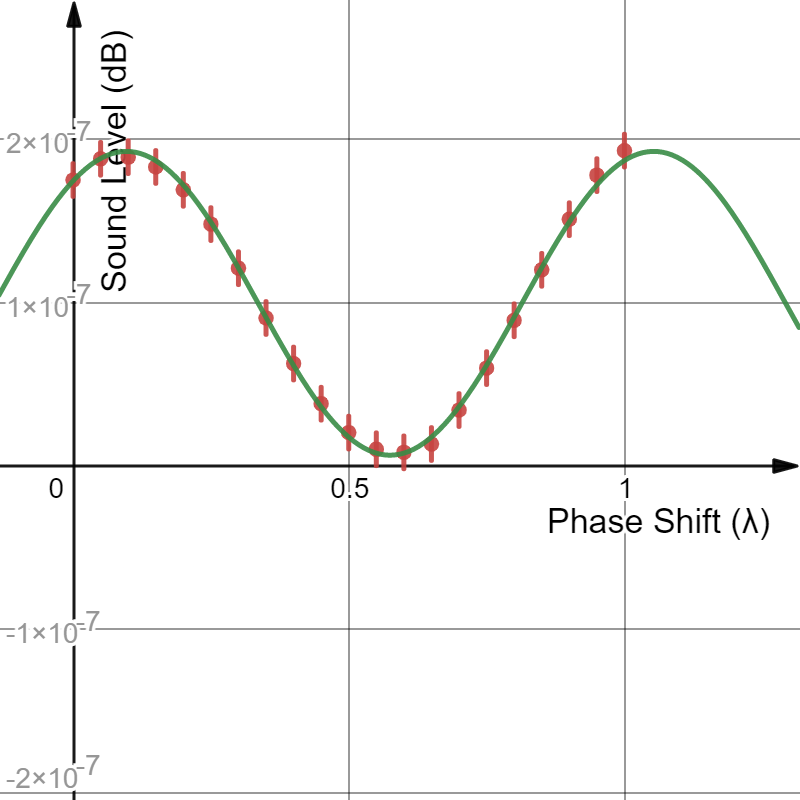
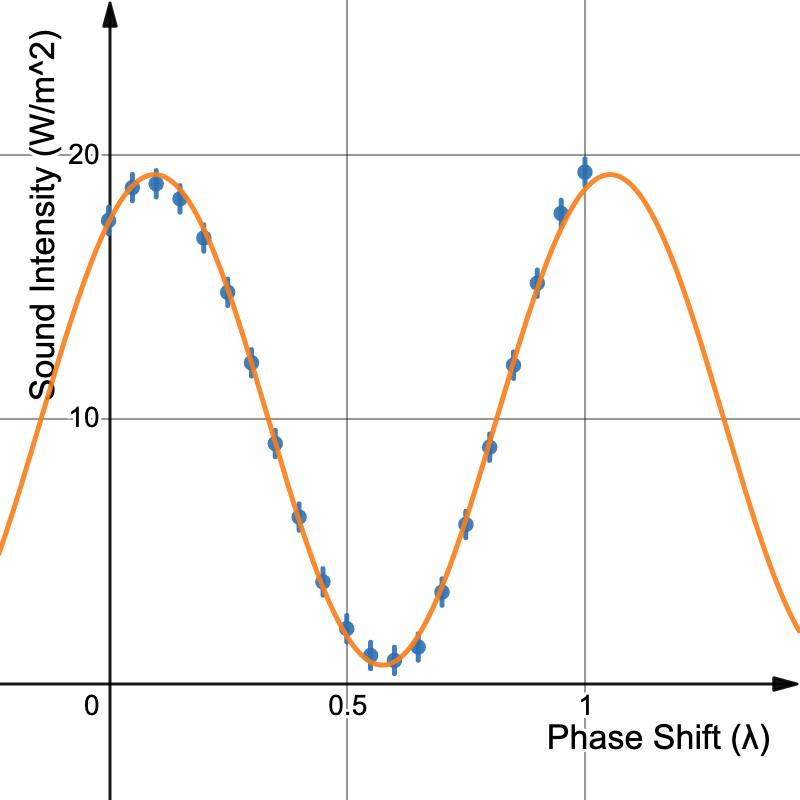
added code explanation, new images, new conclusion

diff --git a/paper/body.tex b/paper/body.tex
@@ -20,7 +20,7 @@ Wave interference essentially occurs, when two waves meet together. There are tw
 
 \subsection{Sound Intensity}
 
-We know from theory that the relative phase shift between two waves is clearly tied to amplitude of the resulting wave in some way, but the amplitude doesn't necessarily equal the sound level of the wave. In fact, the energy of the wave is proportional to the square of its amplitude \cite{openstax}. This is because from the formula for simple harmonic motion, of a particle in a wave moving up and down, we derive the equation \(E=2\pi^2\cdot d\cdot A\cdot v\cdot f^2\cdot x^2\).
+We know from theory that the relative phase shift between two waves is clearly tied to amplitude of the resulting wave in some way, but the amplitude doesn't necessarily equal the sound level of the wave. In fact, the energy of the wave is proportional to the square of its amplitude \cite{openstax}. This is because from the formula for simple harmonic motion, of a particle in a wave moving up and down, we derive the equation \(E=2\pi^2\cdot d\cdot A\cdot v\cdot f^2\cdot x^2\) \cite{giancoli1995physics}.
 
 
 The sound intensity of a wave depends both on the energy of the wave and the area in which it travels through, being proportional to power and inversely proportional to area as shown by \(I=\frac{P}{A}\), where area is a square length. \cite{openstax}.
@@ -51,18 +51,30 @@ The difference in displacement between two in-phase waves would have a sinusoida
 \begin{figure}[H]
     \centering
     \includegraphics[scale=0.3]{prediction.png}
-    \caption{Predicted graph when the second wave is phase-shifted at exactly \(\frac{1}{2}\lambda\) away from each other. Red line is the resulting amplitude. \href{https://www.desmos.com/calculator/ahmohu46il}{link}}
+    \caption{Predicted graph when the second wave is phase-shifted at exactly \(\frac{1}{2}\lambda\) away from each other. Red line is the resulting amplitude.}
 \end{figure}
 
 \section{Variables and Explanations}
 
 \subsection{Independent Variable}
 
-The independent variable in this case would be the phase-shifted distance between the two waves. Its units would be in a decimal ratio of the wavelength of the sine wave (with a frequency of 250 Hz).
+The independent variable in this case would be the phase-shifted distance between the two waves. Its units would be in a decimal ratio of the wavelength of the sine wave (with a frequency of 264 Hz).
 
-To change this variable, we use a computer program to generate this wave.
+To change this variable, we use a computer program to generate this wave from speakers.
 
-\begin{verbatim}
+\begin{figure}[H]
+    \centering
+    \includegraphics[scale=0.2]{layout.png}
+    \caption{Overview of the computer program}
+\end{figure}
+
+To produce a real sound wave from the speakers, we have to input data points into the sound interface. For most regular situations, these data points either by accessing them directly (for example, in an \textit{.mp3} file). But in this case, to get a static noise, we sample the \textbf{amplitude} a sound wave, which in this case is our \(\sin\) function.
+
+The basics of how we get our points for the two waves works: is by plugging in the simple time for one function into sin, then plugging in the time + the offset lambda (our \textbf{independent variable}), sampling one wave and outputting it to the left speaker, and sampling the other wave and outputting it to the right speaker, concurrently.
+
+This function below is responsible is the core of the sampling code for the program.
+
+\begin{minted}[linenos, breaklines]{rust}
     fn next(&mut self) -> Option<(f32, f32)> {
         // Add dt (sample rate) to time
         self.time += self.delta_t;
@@ -72,21 +84,13 @@ To change this variable, we use a computer program to generate this wave.
         // This means if we want a phase shift of 1/2, we need to do 1/2 / 5, which would be 1/10
         let lagging = ((self.freq * (self.time + (self.phase_shift) / self.freq) * PI * 2.).sin()
             * self.amplitude) as f32;
+        // the leading is outputted to the left speaker
+        // the lagging is outputted to the right speaker
         Some((leading, lagging))
     }
-\end{verbatim}
+\end{minted}
 
-\begin{figure}[H]
-    \centering
-    \includegraphics[scale=0.2]{layout.png}
-    \caption{Overview of the computer program}
-\end{figure}
-
-In order to understand this function, first understand that whenver we wish to produce music through the speaker, that is, a real sound wave through the speaker, we have to input data points into the sound API. We get these data points either by accessing them directly (in the case of an \textit{.mp3} file, for example, or by sampling the \textbf{amplitude} a sound wave, which in this case is our `sin' function.
-
-The question then becomes, how do we determine how many points do we need to sample from the wave? We define the number of points that we'll sample using the \textbf{sample rate}.
-
-For example if the sample rate for our application is 48,000 Hz, that means that every \(\frac{1}{48,000}seconds\) or so, we'll look at our sine function and retrieve our points.
+In line 3, our current time is incremented by \verb+delta_t+. and its value is \(\frac{1}{48,000}(seconds)\), meaning we'll sample \(48,000\) points every second from our \(\sin\) wave.
 
 \begin{figure}[H]
     \centering
@@ -94,29 +98,49 @@ For example if the sample rate for our application is 48,000 Hz, that means that
     \caption{Example of how a sine wave is sampled over a period of 1s}
 \end{figure}
 
-The basics of how we get our points for the two waves works: is by plugging in the simple time for one function into sin, then plugging in the time + the offset lambda (our \textbf{independent variable}), sampling one wave and outputting it to the left speaker, and sampling the other wave and outputting it to the right speaker, concurrently.
+The reason that our \verb+delta_t+ is that value is because the specific speaker used in this experiment has a maximum sample rate of \(48,000Hz\). The effect that higher and lower sample rates has on sound waves produced by the speaker is beyond the scope of this paper.
 
-% As the sounds from the speakers are generated by sampling a \(\sin\) function with a frequency of 250 Hz, this independent variable will be directly set by adding an it as an offset, \(\sin(x + dt)\), where \(dt\) is the phase shift, to the second speaker on the right.
+In line 4, the amplitude of the "control wave" (the wave in which there is no phase change is calculated) using the following function
+\begin{equation*}
+    A\cdot\sin\left(ft\cdot2\pi\right)
+\end{equation*}, where \(f\) is the frequency of the wave (which is \(264\)), \(t\) is the current time, and \(A\) is the amplitude of the wave.
 
-The uncertainty in this independent variable is practically negligible, as the increments in phase shift are directly set in the computer program as floating point values, which the investigation of is beyond the scope of this paper.
+We also have \(2\pi\), because recall that the period of a \(sin\) wave is \(\frac{2\pi}{B}\), where \(B\) is the coefficient modifying the \(X\). Since frequency is \(\frac{1}{T}\), that means the frequency of a wave is \(\frac{B}{2\pi}\). So if we want our frequency of \(264\) to be true, we add the \(2\pi\)
+\begin{align*}
+    frequency & =\frac{B}{2\pi}            \\
+              & =\frac{264\cdot2\pi}{2\pi} \\
+              & =264
+\end{align*}
+
+Finally, in line 8, we calculate the phase-shifted wave by simply adding the phase shift to the time, divided by the frequency, \(f\).
+
+\begin{equation*}
+    A\cdot\sin\left(f\left(t+\frac{\lambda}{f}\right)\cdot2\pi\right)
+\end{equation*}
+
+We divide by the frequency because our phase shift is a ratio from 0 to 1, and a frequency of \(264\) means that the wave is going down 264 times a second, meaning its wavelength is not equal to 1.
+
+The uncertainty in this independent variable is practically negligible, as the increments in phase shift of \(0.05\) are directly stored in the computer program as floating point values, the inaccuracy of which is beyond the scope of this paper.
 
 \subsection{Dependent Variable}
 
-The sound level will be the dependent variable of the equation. It will be in the units of decibel. This measurement will be taken with the microphone on a used samsung galaxy sx running the recording app xxx, for ten seconds. Then samples will be taken every second and averaged.
+The sound level will be the dependent variable of the equation, measured in decibes. This measurement will be taken with the microphone on a used Samsung Galaxy Note9, placed in exactly the center of the distance between the two seakers, measured by ruler. The sound meter app will run for twenty seconds, and the average sound level during that time will be recorded.
 
-The uncertainty here will arise from the sensitivity of the microphone.
+The uncertainty here will arise from the sensitivity of the microphone, and the precision of the sound meter app, as well as ambient noise and other unexpected noise from the environment, which would heavily impact the data from the experiment if it is not controlled.
 
 \subsection{Controlled Variable}
 
-\textbf{The distance between the two speakers} must be kept constant in every trial. As sound spreads out, it loses power exponentially, so pulling the speakers too far apart will decrease the measured sound level, and pulling the speakers too close together would increase the measured sound level. The distance between the two speakers would also directly impact the independent variable, the phase shift between two waves. For example, for a \(\sin\) wave of 250 Hz (around middle C frequency), the wavelength is only \(1.3m\), so a small shift in speaker distance in the tens of centimeters could invalidate the whole experiment. Therefore, to keep 
+\textbf{The distance between the two speakers} must be kept constant in every trial. As sound spreads out, it loses power exponentially, so pulling the speakers too far apart will decrease the measured sound level, and pulling the speakers too close together would increase the measured sound level. The distance between the two speakers would also directly impact the \textit{phase shift} between the two waves. For example, for a \(\sin\) wave of 264 Hz (around middle C frequency), the wavelength is only around \(1.30m\) meters, so a small shift in speaker distance in the tens of centimeters could invalidate the whole experiment. Therefore, to keep distance between the two waves equivalent, a ruler will be used to measure exactly \(1.30m\) from the base of one speaker to the other.
 
-\textbf{The position of the microphone} should be kept constant in every trial. This is because while for perfect destructive interference the amplitude of the wave everywhere would be zero, because sound waves are sinusoidal their amplitudes differ at certain points. A distance further away from the source would also result in decreasing sound levels due to the fact that energy travels away in a sphere so much of it is lost to the environment further out.
+\textbf{The position of the microphone} should be kept constant in every trial, both in the axis between speakers, and the axis perpendicular to the axis between speakers. This is because, while for perfect destructive interference, the amplitude of the wave everywhere would be zero, in other cases their will amplitudes differ at certain points. Similar to the positions of the speakers, a perpendicular distance further away from the speakers would also result in decreasing sound levels due to the fact that energy travels away in a sphere so much of it is lost to the environment further out. To mitigate position difference in the axis between speakers, the same ruler will be used to ensure that the tip of the phone is aligned exactly to \(0.65m\).
 
-\textbf{The frequency and wavelength of the two waves} The frequency of two waves should be kept the exact same throughout all trials. In order for perfect constructive and destructive interference to occur, the two waves must be perfectly in-phase with each other, otherwise the resulting wave would be very uneven and there would be varying results everytime.
+\textbf{The frequency and wavelength of the two waves} The frequency of two waves should be kept the exact same at \(264Hz\) throughout all trials. In order for perfect constructive and destructive interference to occur, the two waves must be perfectly in-phase with each other, otherwise the resulting wave would be very uneven and there would be varying results everytime.
 
 \textbf{The temperature of the room} The temperature of the room should be kept constant because temperature and movement of particles in the air affects the amount of energy lost as the wave propogates forward.
 
-\textbf{Ambient Sound Level} The ambient sound level should be kept constant because otherwise the dependent variable of sound level would be modified not just by the independent variable but also by the environment, which would invalidate the experiment. To minimize the impact that the environment will have on the experiment, four chairs will be placed surrounding the two speakers, and plankets draped over them and the top of the speakers, in an effort to decrease the effects that ambient sound levels would have on the final experiment.
+\textbf{Ambient Sound Level} The ambient sound level should be kept constant because otherwise the dependent variable of sound level would be modified not just by the independent variable but also by the environment, which would invalidate the experiment. To minimize the impact that the environment will have on the experiment, four chairs will be placed surrounding the two speakers, and blankets draped over them and the top of the speakers, in an effort to decrease the effects that ambient sound levels would have on the final experiment.
+
+\textbf{Volume of the Speaker and Operating System} There are two places where the general output volume of the speaker can be modified, and those are in the operating system (when the press the volume up and volume down keys are pressed on the keyboard) as well as volume buttons on the external speaker. As these sound levels vary across speakers and operating systems, this paper will not provide a set constant value in which to set these two values, but the two volume controls will be tuned to an acceptable midlevel volume that falls under the danger sound levels specified by NIOSH (see safety sections below) and kept at a constant value when the experiment is carried out.
 
 \section{Method}
 
@@ -129,17 +153,18 @@ The uncertainty here will arise from the sensitivity of the microphone.
 \begin{enumerate}
     \item Position two identical speakers 1.30 meters apart from each other, with their fronts aligned straight towards each other
     \item Connect both speakers via cable to a computer
-    \item Put a phone face up between the midpoint of the distance between the two speakers
-    \item Run a computer program that plays a monotone sine wave at a frequency of 264 Hz through one speaker, then plays the exact same sound on the other speaker
+    \item Put a phone face up on the midpoint of the distance between the two speakers
+    \item Set the phase-shift of the wave to \(0\lambda\) through the computer program
+    \item Run the computer program that plays a monotone sine wave at a frequency of 264 Hz through one speaker and an identical phase-shifted wave through the other speaker at the same time.
     \item After the speakers have started playing for at least 5 seconds, begin recording audio on the phone for 20 seconds.
     \item After 20 seconds, pause the recording app on the phone, and record the average sound level displayed on the app
     \item Repeat this recording process 3 times, and take the average of the three trials
-    \item Repeat the entire experiment with shifted wavelengths of 0, incrementing by \(0.05\times\lambda\), all the way up to and including a full phase shift of \(1\lambda\)
+    \item Repeat the entire experiment, incrementing the phase-shift defined in step 4 by \(0.05\lambda\), all the way up to and including a full phase shift of \(1\lambda\)
 \end{enumerate}
 
 \subsection{Safety}
 
-Safety precautions should be made to ensure that the speaker sound levels do not go above maximal decibel sound levels that humans are tolerant of, to preserve the health of the ear. According to the NIOSH recommendations, a constant sound level of 85 dBAs should be exposed to no amount greater than 8 hours.
+Safety precautions should be made to ensure that the speaker sound levels do not go above maximal decibel sound levels that humans are tolerant of, to preserve the health of the ear. According to the NIOSH recommendations, a human should not be exposed to a constant sound level of 85 dBAs for greater than 8 hours \cite{cdc}. In order to make sure that sound levels never get close to 85 dBAs, the sound level when speakers are playing Aill be observed on the sound meter app at all times and the speaker volume kept at a constant
 
 \section{Raw Data Table}
 
@@ -187,16 +212,14 @@ Safety precautions should be made to ensure that the speaker sound levels do not
 \section{Sample Calculations}
 
 \begin{align*}
-    \intertext{\textbf{Average Sound level}}
+    \intertext{\textbf{Propogation of Uncertainty}}
     \intertext{The formula for the sound level, \(T_{average}\) is given by}
     T_{average}              & = \frac{T_{1}+T_{2}+T_{3}}{3}
-    \intertext{\textit{Example} calculation of average distance when given a phase shift of \(0.55\lambda\)}
-                             & = \frac{40.1g+39.9g+40.1g}{3} \approx 40.0g                              \\
-    \intertext{\textbf{Propogation of Uncertainty}}
+    \intertext{\textbf{Average Sound level}}
     \intertext{The first way to propogate uncertainty is as follows}
     Uncertainty\ T_{average} & = \frac{Uncertainty\ T_{1} + Uncertainty\ T_{2} + Uncertainty\ T_{3}}{3}
-    \intertext{\textit{Example} calculation of propogation of uncertainty given a phase shift of \(0.55\lambda\) \(0.55\lambda\)}
-                             & = \frac{.05 + .05 + .05}{3} = .05                                        \\
+    \intertext{\textit{Example} calculation of propogation of uncertainty given a phase shift of \(0.55\lambda\)}
+                             & = \frac{.05 + .05 + .05}{3} = .05
 \end{align*}
 
 \section{Calculated Data Table}
@@ -240,12 +263,12 @@ Safety precautions should be made to ensure that the speaker sound levels do not
 
 The line of best fit follows a curve that repetitively goes up and down, which suggests that phase shift has a sinusoidal relationship with resulting sound level. However, the correlation falls off, and points begin to deviate wildly from the line of best fit especially near the trough of the wave, where they seem to accelerate in change, and at the crests, where their rate of change seems to slow down. The error bars on many of the data points are small, yet the bars often don't touch the actual line of best fit. The crests of the grpah occur when phase shift is 0 and 1, and the lowest volume area would be when phase shift is 0.5.
 
-I recalled here that decibels were exponential, meaning that they require exponentially more energy to get loud, and exponentially less energy to become more quiet. We could calculate use our average sound level to calculate the intensity of the wave.
+Recall here that decibels are exponential, meaning that they require exponentially more energy to get loud, and exponentially less energy to become more quiet. We could calculate use our average sound level to calculate the intensity of the wave.
 
 \section{Sample Calculations for Sound Intensity}
 
 \begin{align*}
-    \intertext{This is the equation for getting sound level}
+    \intertext{Recall the equation for getting sound level}
     s                 & =10\log_{10}\left(\frac{I}{I_{0}}\right) \\
     \intertext{We divide both sides by 10}
     \frac{s}{10}      & =\log_{10}\left(\frac{I}{I_{0}}\right)   \\
@@ -285,39 +308,43 @@ Notice that we get \(10\) to the power of something as the resulting equations. 
     \end{tabularx}
 \end{table}
 
-And then we can graph this, to create a much nicer looking graph:
+And then we can graph the sound intensity as a function of phase shift, which which results in a graph with the points being much more closely aligned with the data.
 
 \begin{figure}[H]
     \centering
-    \textbf{The effect of phase shift on the sound level of resulting wave.}\medskip\par
+    \textbf{The effect of phase shift on the sound intensity of resulting wave.}\medskip\par
     \includegraphics[scale=0.3]{graph-calc.png}
     \caption{\(y=9.31\times 10^{-8}\sin\left(6.57\left(x+0.142\right)\right)+9.95\times 10^{-8}\) }
 \end{figure}
 
+The resulting sound intensity graph is much more sinusoidal in nature than the sound level graph, as all the averaged data points or their error bars fall on the line of best fit.
+
+\section{Observations}
+
+During the experiment, I noticed that the speakers radiated out their sound waves in a sphere outwards, and as an observer in the side, moving my ears to different areas resulted drastically different areas of loudness and quietness.
+
 \section{Conclusion}
 
-The results of the experiment confirmed my initial hypothesis that the phase shift  of a one wave affects the resulting recorded sound level in a sinusoidal relationship. The theory that when two waves that are in phase meet, their crests add up, such that overlaid waves became louder, and waves off by half a \(\lambda\) became less loud, were true.
-Greater energy results in greater amplitude, but it is important to keep in mind that the sound level relationship isn't purely sinusoidal, but includes logarithms, such that it becomes hard to increase volume. The sweet spot for perfect destructive interference, therefore, Should be carefully inspected, as the silence is much deeper as the wavelengths line up to be around \(\frac{1}{2}\) apart.
+The results of the experiment went against my initial hypothesis that the phase shift of a one wave affects the resulting recorded sound level in a sinusoidal relationship. The theory that when two waves that are in phase meet, their crests add up, such that overlaid waves became louder, and waves off by half a \(\lambda\) became less loud, were true. However, while this change in amplitude affected \textit{sound intensity} in a fully sinusoidal relationship, the relationship with sound level was part sinusoidal, part exponential.
+Greater energy does result in greater amplitude, but it is important to keep in mind that the sound level relationship isn't purely sinusoidal, because it includes logarithms and isn't uniform, so it becomes harder to increase sound level overtime with constant increases in energy.
+In relation to perfect perfect destructive interference, the data suggests that sound level will decrease exponentially as the phase shift gets closer and closer to \(0.5\lambda\). In building a real sound-cancellation device, this change in should therefore be carefully inspected, as the silence is much deeper as the wavelengths line up to be around \(\frac{1}{2}\) apart.
 
 \section{Evaluation of Strengths and Weaknesses}
-The use of a computer to change the independent variable, change in phase between two identical waves, offers a very high degree of accuracy, especially in dealing with waves travelling at the speed of light. This should result in a very low degree of uncertainty in the measurement of the independent variable.
+The use of a computer to directly change the change in phase between two identical waves, made it so that there was very little error in changing the independent variable.
 
-The fact that this test includes mostly electronics allows for easy automation of collected data. This results in data being collected in a smaller time frame, which minimizes the impact that the environment, in ambient noise level and temperature.
+The fact that this test used a computer program to directly sample from \(\sin\) waves depending on their phase shift made changing the independent being very simple. This resulted in data being collected in a smaller time frame, which minimized the impact that the environment, in ambient noise level and temperature.
 
-The biggest source of weakness in this experiment was the nature of speakers. I noticed that duirng the experiment, only the straight middle line between the two speakers exhibited this constant pattern. The speakers radiated out their sound waves in a sphere outwards, and as an observer in the side, moving my ears to different areas resulted drastically different areas of loudness and quietness.
+Another major source of error in this experiment was the fact that it was done inside, and the sound dampening solution of four chairs and a blanket did not work out. When speakers were turned on with the blanket enclosing them, the blankets did not actually fully cancel out the sound traveling towards them like I thought they would do, but rather, they seemed to \textbf{increase} the sound level if they were placed too close to the speakers. This was perhaps the speakers were more flat than I thought they would be. Multiple waves bouncing together at different angles could've caused some measureable different in sound intensity, although the position of the blankets were kept constant.
 
-It's hard to do the experiment outside, because there are no plugs outside. Therefore, when doing the experiment inside, \textbf{reverb} from walls may cause sound distortions that affect sound levels in unforseen ways, for example, waves may bounce off from the left and right instead of head on and collide fourway in the middle, exacerbating maximum amplitudes and increasing the deviation of data.
+Another potentially large source of the error was the angle between speakers. Initially, I thought that it wouldn't be a problem and didn't include it in my controlled variables, but after realizing that the speakers were spherical, the alignment of the speakers pointing directly to each other had to be done by eye, which was perhaps why the ideal phase shift for perfect destructive interference to occur according to literature was not exactly at \(0.5\lambda\) but rather closer to \(0.6\lambda\).
 
-To prevent this, sound dampeners may be placed on the side of the wall, for example blankets.
-
-Another source of error is the \textbf{sensitivity} of the speaker. All speakers, due to limitations in physics and design, have a degree of error in the quality of sound that they are able to produce. In this experiment, this sensitivity was added as uncertainty to the measurement of the sound level. To decrease the amount of uncertainty in future measurements, better quality speakers could be used, which would have a higher sensitivity and therefore result in less fluctuations in sound generated.
+% Another source of error was the \textbf{sensitivity} of the speaker. All speakers, due to limitations in physics and design, have a degree of error in the quality of sound that they are able to produce. In this experiment, this sensitivity was added as uncertainty to the measurement of the sound level. To decrease the amount of uncertainty in future measurements, better quality speakers could be used, which would have a higher sensitivity and therefore result in less fluctuations in sound generated.
 
 \section{Future Improvements}
 
-To improve upon this experiment, the first step would be to get a more controlled room, where there would be less bouncing on the walls. Improving the specificity of the microphone of the phone to include the thousandths of decibels would result in more accurate measurements.
+To improve upon this experiment, the first step would be to get a more controlled room, and use better sound dampeners which would catch the sound waves instead of letting them bounce off right back towards the microphone. Improving the specificity of the microphone of the phone to include the thousandths of decibels would result in more accurate measurements. Using a protractor to ensure that the speakers are more aligned to each other would potentially get data values where the perfect destructive interference is closer to \(0.5\lambda\).
 
-Lastly, testing more wavelengths of phase shift, such as 2 or 3 \(\lambda\)s of shift would confirm the pattern that was concluded in this experiment.
-
+Lastly, testing greater wavelengths of phase shift, up to 2 or 3 \(\lambda\)s of shift would better confirm the pattern that was concluded in this experiment.
 
 \section{Works Cited}
 

diff --git a/paper/index.tex b/paper/index.tex
@@ -50,6 +50,8 @@
 % use natbib for custom in-text citations (e.g. author, n.d.)
 % \usepackage{natbib}
 \bibliographystyle{plain}
+% code blocks
+\usepackage{minted}
 
 % Sets footer
 \pagestyle{fancy}
